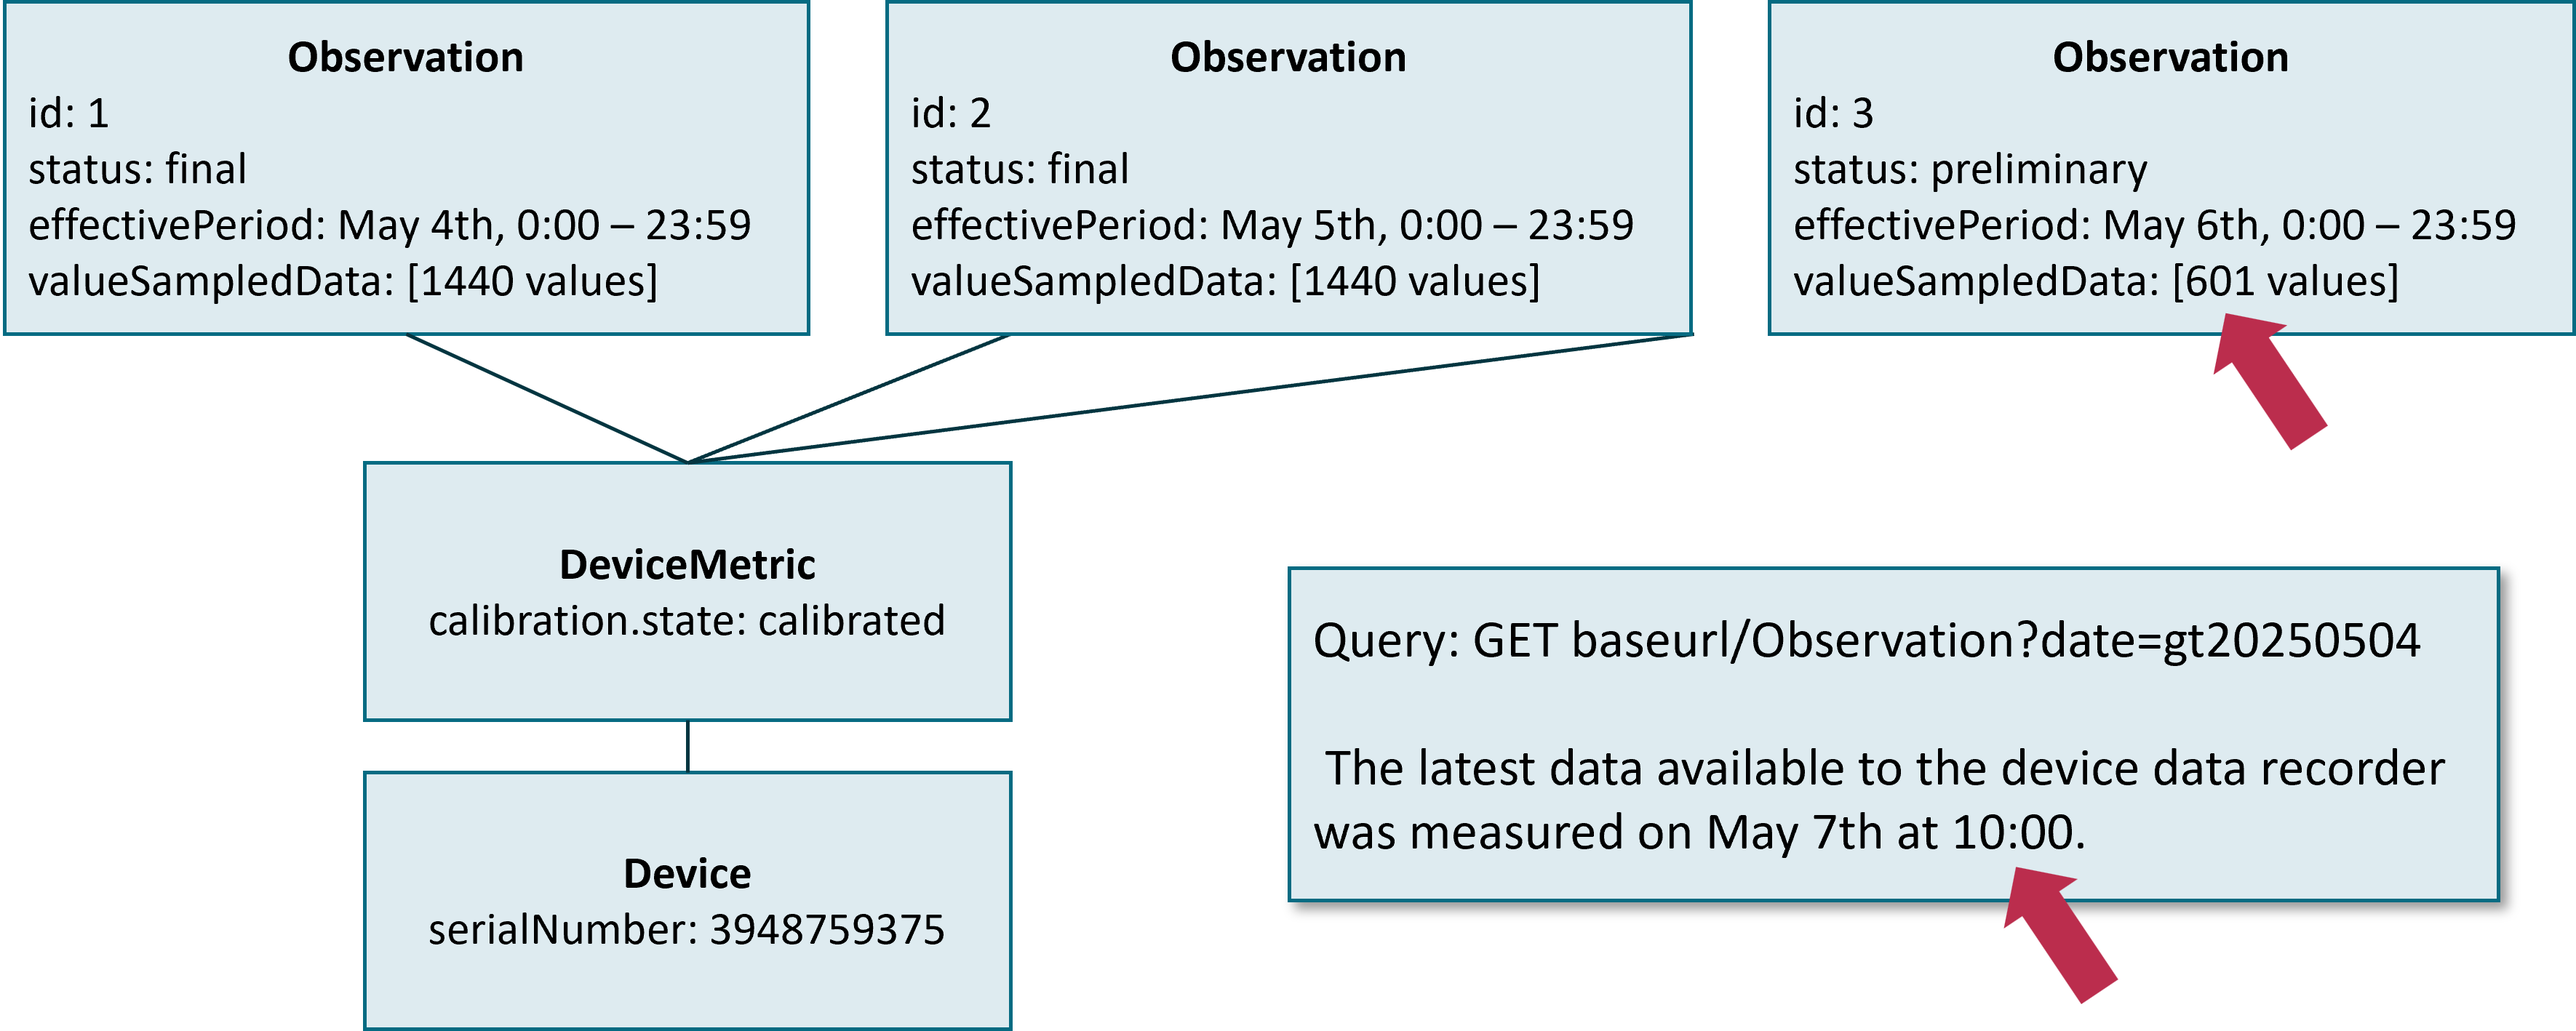
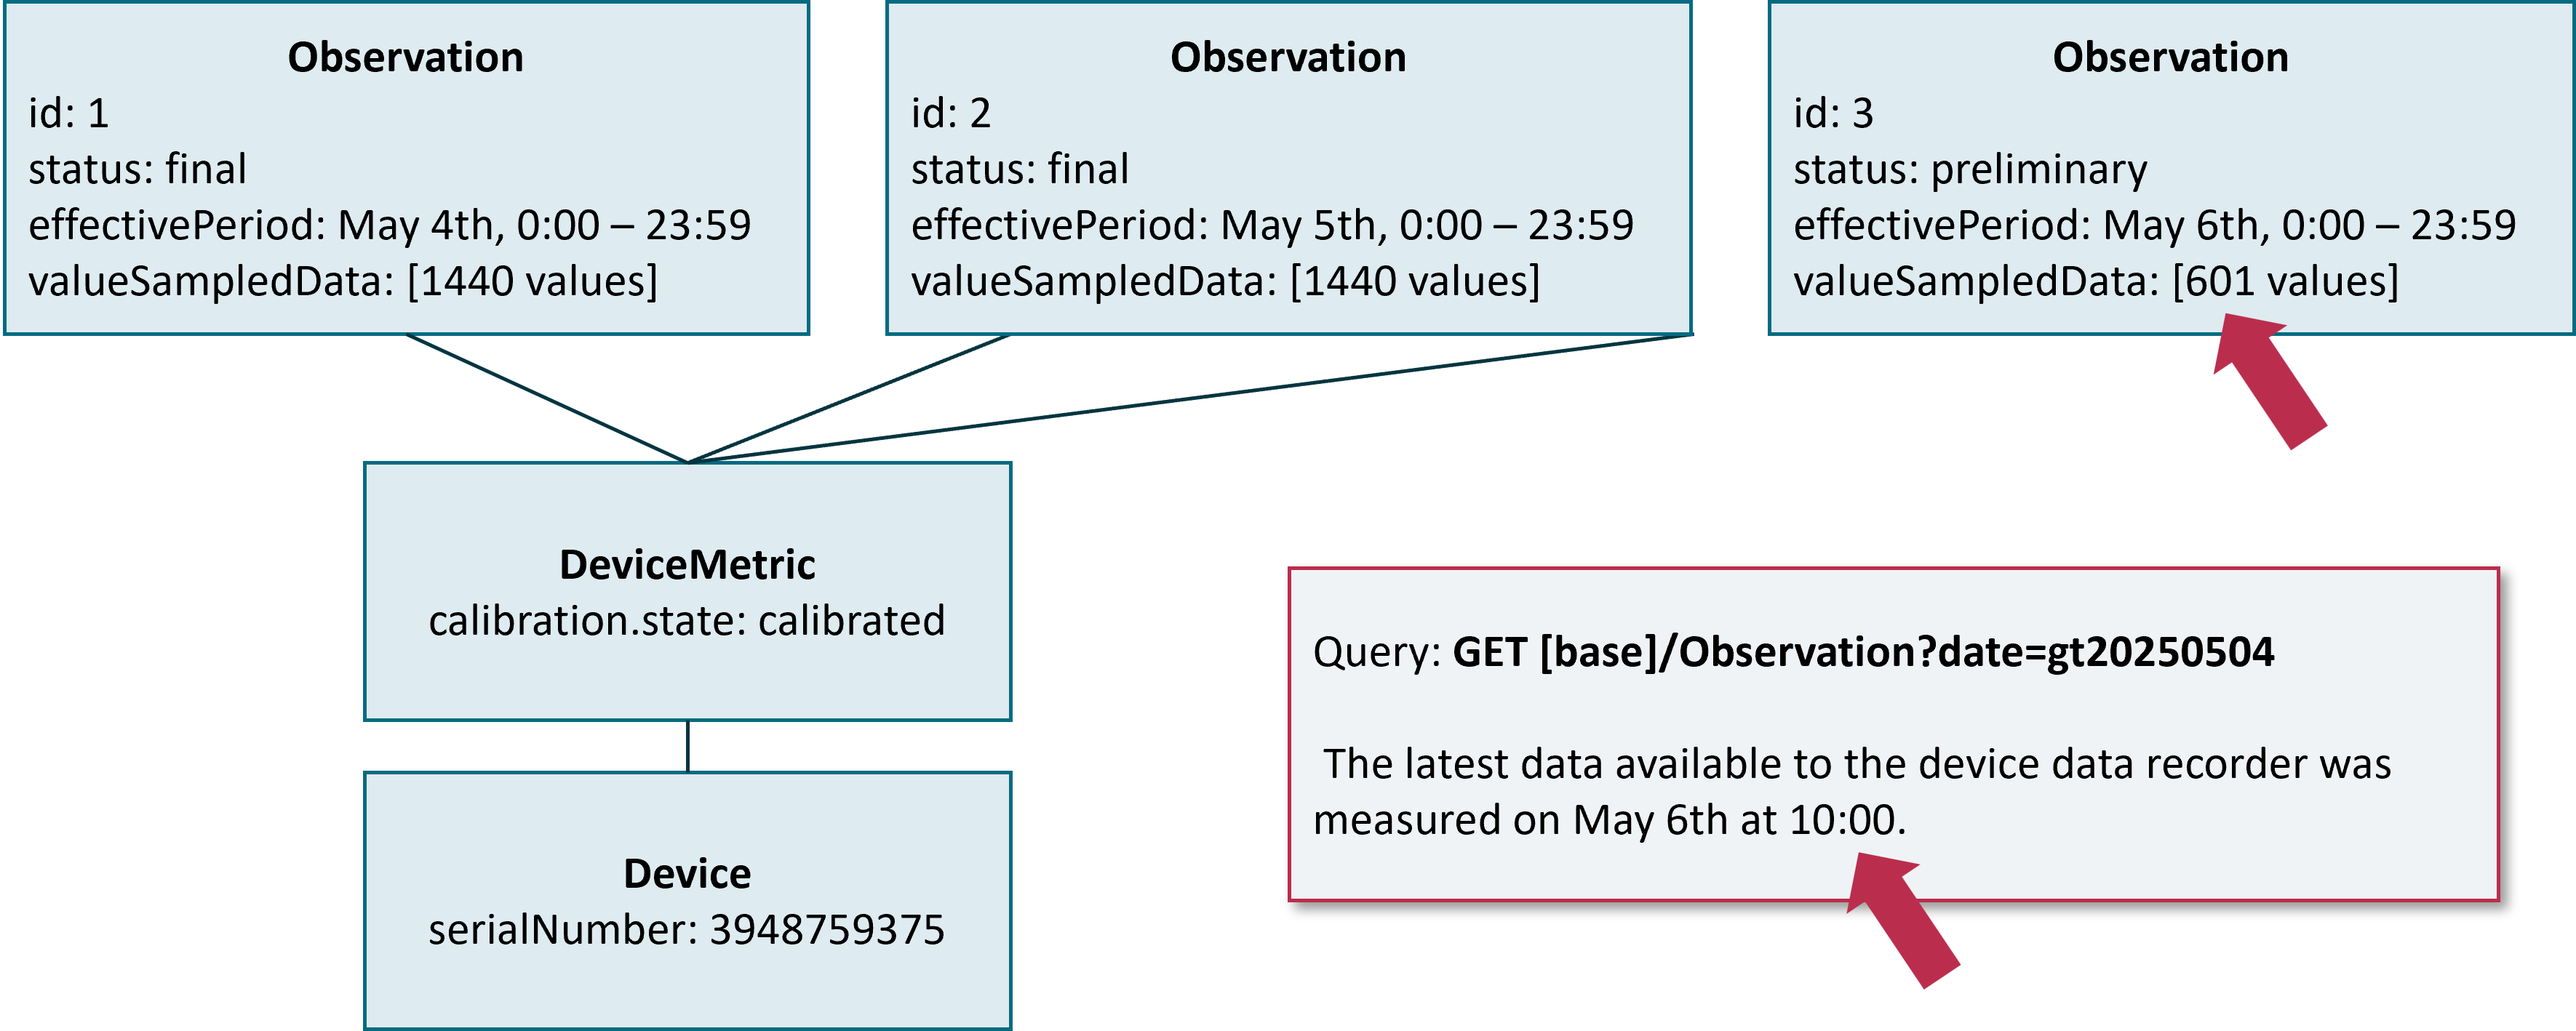
Thema Kalibrierung (#52)

Changed region(s): [[0.497, 0.7137, 0.963, 0.9619], [0.497, 0.5896, 0.9319, 0.6516], [0.497, 0.5275, 0.963, 0.5585]]

diff --git a/input/pagecontent/retrieving-data.md b/input/pagecontent/retrieving-data.md
@@ -32,7 +32,13 @@ In addition, there are also devices and scenarios, which combine both paradigms,
 
 The HDDT FHIR API handles dedicated and continuous measurements in different ways. Which flavor of the API is to be used, is part of the FHIR implementation guide of a [MIV](methodology.md). For combined scenarios usually the API flavor for continuous measurements is used, because it is much more efficient in transfering sampled data.
 
-#### Searching using FHIR search interaction
+#### General Requirements
+The specification of the techncal interfaces for retrieving device data considers the following determinations and requirements:
+* A DiGA pulls data from the device data recorder by stating a request for data. This may either be a FHIR RESTful interaction or a FHIR operation (for details see below). The device data recorder MUST validate the request and upon acceptance MUST respond with a set of FHIR resources that match the request.
+* For all data transmitted to a DiGA by a device data recorder it MUST be clear to the DiGA, if the device that collected the data was in a calibrated state or not. 
+* Usually a set of device data provided by a device data recorder covers a period of time that was given with the request (e.g. all measurements for the last 4 hours). For each response of a device data recorder it MUST be clear to the DiGA if the provided set of data is complete or not. E.g. a set of data may be inclomplete, if the connection between the aggregation manager and the health record was broken during the requested period and the missing data may be transmitted to the health record after the connection is re-established. 
+
+#### Searching Observations Using FHIR _search_ Interactions
 
 DiGA request device data from a device data recorder (see [information model](information-model.md])) using a standard FHIR [search interaction](https://hl7.org/fhir/R4/http.html#search) on the [Observation](https://hl7.org/fhir/R4/observation.html) resource type. 
 The device data recorder MUST respond to a [search](https://hl7.org/fhir/R4/http.html#search) request with a collection of [Observation](https://hl7.org/fhir/R4/observation.html) resources or with an error.
@@ -41,9 +47,22 @@ The request header MUST contain an Access Token acc. to the HDDT [OAuth2 profile
  
 The device data recorder MUST be able to discover the internal patient identifier from the access token. This identifier MUST implicitly be considered as the `subject` argument with every query to the device date recorder's FHIR API. If a DiGA explicitly provides a `subject`argument with a query, the device data recorder MUST ignore this argument and SHOULD respond with an _Invalid Request_ error (see [OpenAPI definition](himi-diga-api.md#openapi-description)).
 
-The device data recorder MUST be able to discover the SMART Scope from the access token, which were accepted by the device data recorder during pairing with the requesting DiGA (see section [Pairing](pairing.md)). The SMART Scope MUST implicitly be considered as the `code` argument with every query to the device date recorder's FHIR search API. A DiGA MAY explicitly further constrain the scope of the search by providing a `code` argument with a query (see below).
+The device data recorder MUST be able to discover the SMART Scope from the access token, which were accepted by the device data recorder during pairing with the requesting DiGA (see section [Pairing](pairing.md)). The SMART Scope MUST implicitly be considered as the `code` argument with every query to the device date recorder's FHIR search API. If the Scope resolves to multiple LOINC codes, these must all be considered to be query argumnets (OR-semantics). A DiGA MAY explicitly further constrain the scope of the search by providing a `code` argument with a query (see below).
 
 With every FHIR search interaction the requesting DiGA SHOULD provide a `date` argument to set the lower and/or upper bound of the time period for which data is requested. If no `date` is provided with the query, the device data recorder will respond with all data that matches the other (implicit and explicit) query arguments.  
+
+<hr>
+
+__Example__: 
+
+```
+GET [base]/Observation/?date=gt20250912
+```
+The HTTP header holds an Access Token, from which the device data recorder can obtain the internal patient identifer _123_ and a SMART scope that resolves to the [ValueSet](https://hl7.org/fhir/R4/valueset.html) _https://terminologien.bfarm.de/fhir/ValueSet/VS-Tissue-Glucose-CGM_ which contains the LOINC codes [105272-9](https://loinc.org/105272-9/) and [99504-3](https://loinc.org/99504-3). The "real" query sent to the health record in this example is 
+```
+GET [base]/Observation/?date=gt20250912&subject=Patient/123&code:in=https://terminologien.bfarm.de/fhir/ValueSet/VS-Tissue-Glucose-CGM
+```
+<hr>
 
 A DiGA MAY further constrain the kind of requested values by providing one or more `code` arguments with the search request. In this case only [Observation](https://hl7.org/fhir/R4/observation.html) resources are returned, were the contained data exactly match the given codes.
 
@@ -52,6 +71,13 @@ Example: If no `code` argument is given, the data recorder of a blood glucose me
 All `code` values provided as explicit query arguments MUST be part of the [ValueSet](https://hl7.org/fhir/R4/valueset.html) that is referenced in the SMART scope that is linked with the Access Token. If a DiGA requests for a code which is not contained with this value set, the device data recorder MUST respond with an 'Invalid Request` error.
 
 `date` and `code` are the only search parameters that each DiGA and device data recorder MUST support for all MIVs. A MIV-specific implementation guide MAY request for supporting further search arguments and MAY constrain the use and semantics of these arguments. A device data recorder MAY support even more search parameters in accordance to the FHIR [Observation](https://hl7.org/fhir/R4/observation.html) resource definition. In this case these arguments MUST be published through the device data recorders [CapabilityStatement](https://hl7.org/fhir/R4/capabilitystatement.html). 
+
+#### Fetching Single Observations using FHIR _read_ Interactions
+Per HL7 FHIR a _resource_ is a a definable, identifiable, addressable collection of data elements that represents a concept or entity in health care. By this each [Observation](https://hl7.org/fhir/R4/observation.html) resource a device data recorder transmits to a DiGA MUST be identifiable and addressable through an `id`. Device data recorder MUST allow a DiGA to request a known Observation by using a FHIR [_read_ interaction](https://hl7.org/fhir/R4/http.html#read):
+```
+GET [base]/Observation/[id]
+```
+___Remark__: As stated in [General Considerations](general-considerations.md), device data recordes MAY limit access to historical data to 30 days, unless the [MIV](methodology.md)-specific specification requests for a longer period. In case a DiGA requests such a historic resource by its `id` after the availability period ended, the device data recorder MUST respond with a _404 Not Found_ error (see https://hl7.org/fhir/R4/http.html#read for details on handling deleted resources). 
 
 #### Paging
 
@@ -135,8 +161,16 @@ GET baseurl/Observation/3
 ```
 
 ##### Change of calibration.status
+Some sensors for continuous measurements require initial or regular calibration. If this leads to a changed value for `calibration.state` in the [DeviceMetric](https://hl7.org/fhir/R4/devicemetric.html) observation that is bound to a chunk, the device data recorder MUST finish the current chunk and start a new chunk. The same holds for any other change in `calibration.state`, e.g. a sensor that switches from a calibrated to an unknown state  after a certain time (see figure below.)
+
+<div><img src="/HDDT measurement sampled data example 2.png" alt="searching for values from a continuous measurement" width="45%"></div>
+<br clear="all"/>
+
+As can be seen with the example, the last chunk before calibration is set to a _final_ status and the èffectivePeriod` is adapted to the end time the calibration state changed. The new chunk is initialized with a _preliminary_ status and the fixed _chunk-time-span_. 
 
 ##### Changing Devices
+
+
 
 ##### Missing Values
 
